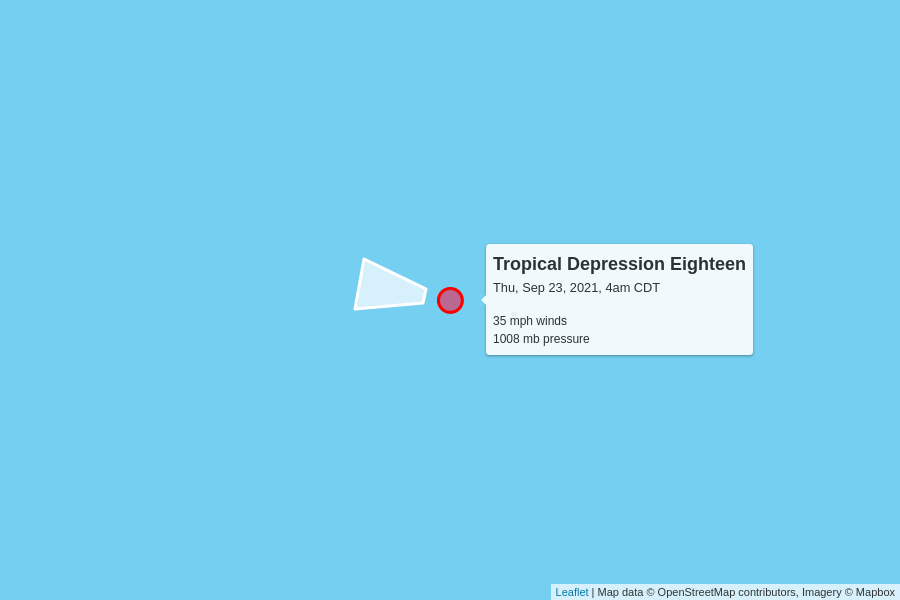
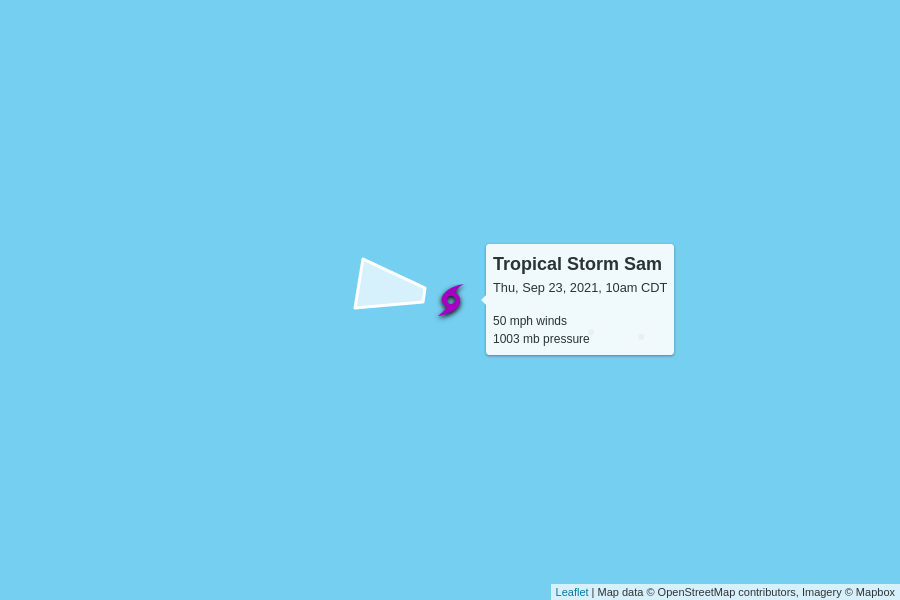
automatic update

Changed region(s): [[0.6222, 0.39, 0.84, 0.6], [0.4356, 0.48, 0.5289, 0.54]]

diff --git a/docs/index.html b/docs/index.html
@@ -97,32 +97,10 @@
 
     <table>
       <tr>
-        <td colspan="6" class="storm category-0" style="cursor:pointer;" onClick="toggle('AL172021')">
-          <h2>🏁 Rose
-          </h2>
-        </td>
-      </tr>
-      
-      <tr id="storm_AL172021" style="display:none;">
-        <td class="spacer">
-        <td colspan="5">
-          <figure>
-            <img src="AL172021.png">
-            <figcaption>
-              Map data &copy; <a href="https://www.openstreetmap.org/copyright">OpenStreetMap</a> contributors,
-              Imagery &copy; <a href="https://www.mapbox.com/">Mapbox</a> |
-              <a href="https://www.mapbox.com/map-feedback/" target="_blank">Improve this map</a>
-            </figcaption>
-          </figure>
-        </td>
-      </tr>
-      
-
-      <tr>
         <td colspan="6" class="storm category-0" >
           <h2>
-            Tropical Depression Eighteen
-            <p class="updated">last updated <span data-time>2021-09-23T09:00:00.000Z</span></p>
+            Tropical Storm Sam
+            <p class="updated">last updated <span data-time>2021-09-23T15:00:00.000Z</span></p>
           </h2>
         </td>
       </tr>
@@ -137,21 +115,43 @@
       </tr>
       <tr>
         <td class="spacer"></td>
-        <td>35 mph</td>
-        <td>1008 mb</td>
+        <td>50 mph</td>
+        <td>1003 mb</td>
         <td>
-          15 mph to the west
+          16 mph to the west
           <br/>
           <span style="display: inline-block; font-size: 1.5em; transform: rotate(280deg);">↑</span>
         </td>
         <td><a href="https://raw.githubusercontent.com/mgwalker/atlantic-hurricanes/main/data/csv/AL182021.csv">AL182021.csv</a></td>
-        <td><a href="https://www.nhc.noaa.gov/archive/2021/EIGHTEEN.shtml?">NHC advisories</a></td>
+        <td><a href="https://www.nhc.noaa.gov/archive/2021/SAM.shtml?">NHC advisories</a></td>
       </tr>
       <tr id="storm_AL182021" >
         <td class="spacer">
         <td colspan="5">
           <figure>
             <img src="AL182021.png">
+            <figcaption>
+              Map data &copy; <a href="https://www.openstreetmap.org/copyright">OpenStreetMap</a> contributors,
+              Imagery &copy; <a href="https://www.mapbox.com/">Mapbox</a> |
+              <a href="https://www.mapbox.com/map-feedback/" target="_blank">Improve this map</a>
+            </figcaption>
+          </figure>
+        </td>
+      </tr>
+      
+
+      <tr>
+        <td colspan="6" class="storm category-0" style="cursor:pointer;" onClick="toggle('AL172021')">
+          <h2>🏁 Rose
+          </h2>
+        </td>
+      </tr>
+      
+      <tr id="storm_AL172021" style="display:none;">
+        <td class="spacer">
+        <td colspan="5">
+          <figure>
+            <img src="AL172021.png">
             <figcaption>
               Map data &copy; <a href="https://www.openstreetmap.org/copyright">OpenStreetMap</a> contributors,
               Imagery &copy; <a href="https://www.mapbox.com/">Mapbox</a> |
